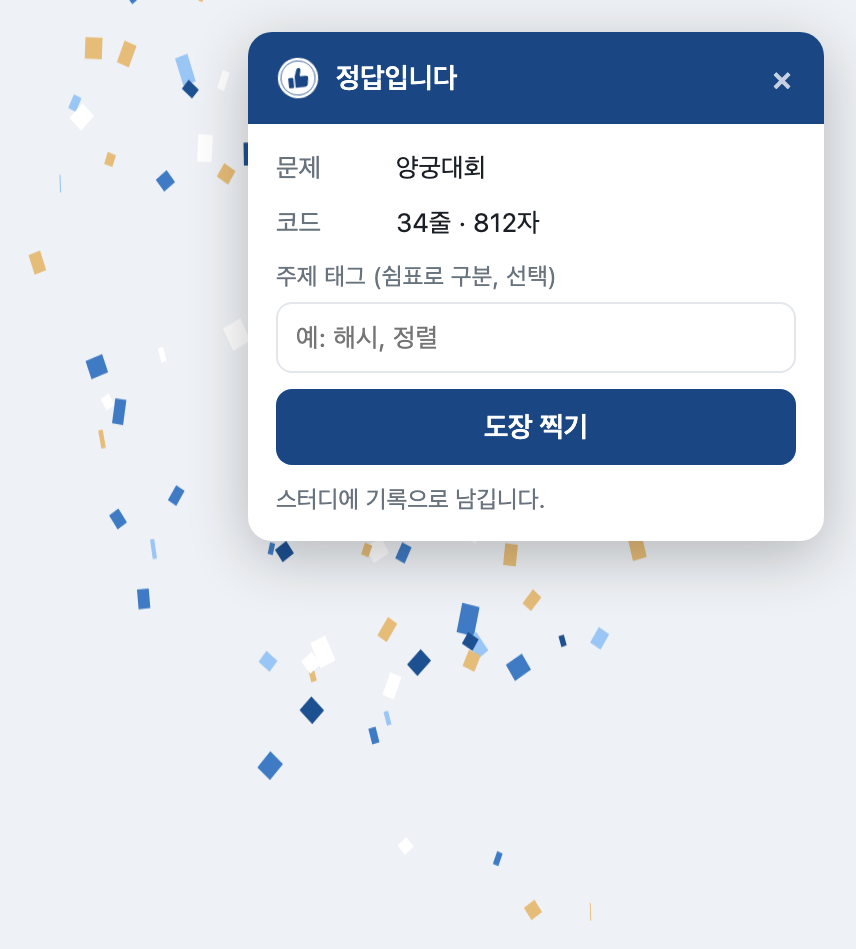
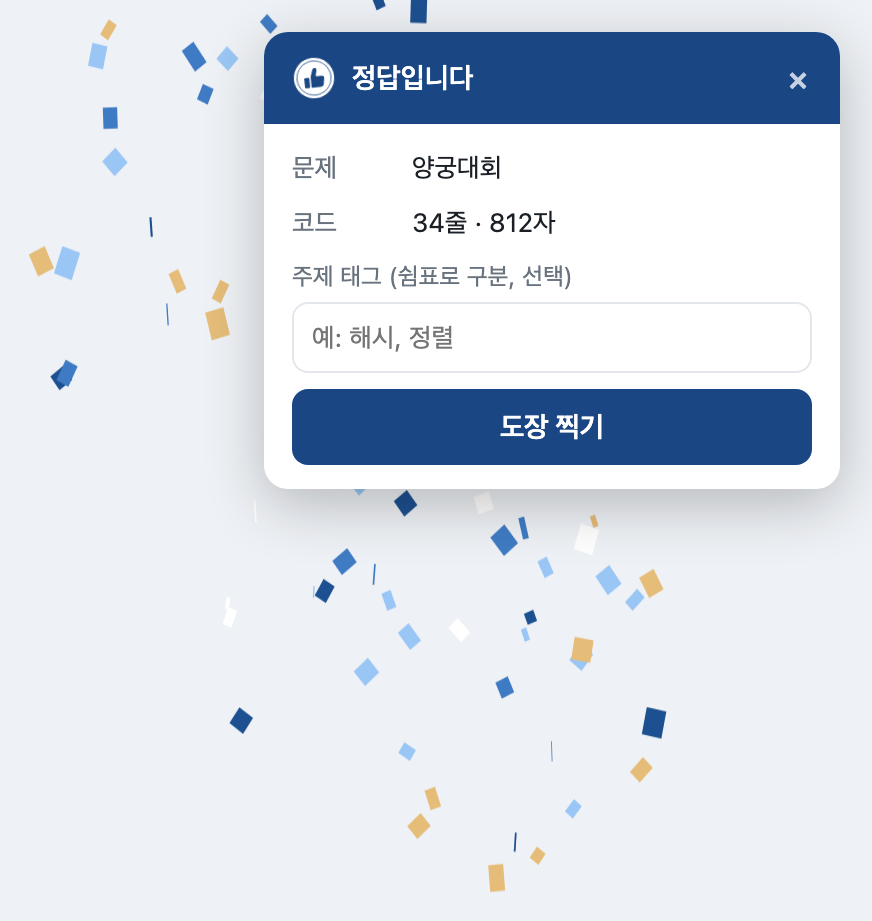
fix: 카드에서 군더더기 안내를 빼고 팝업 문구를 평범하게 고침
'스터디에 기록으로 남깁니다'는 사용자가 이미 아는 내용이라 뺐습니다. 그 자리는
스터디를 골라야 하거나 실패했을 때만 뜹니다. 남의 페이지에 얹히므로 숨김도
overlay.css에서 직접 정합니다.

팝업 안내는 '한 번만 연결해두면 다음부터 바로 찍을 수 있습니다'에서
'처음 한 번만 연결하면 됩니다'로 줄였습니다. 절을 겹쳐 쌓지 않으니 읽기 쉽고,
'~하면 됩니다'가 '이게 전부'라는 뜻을 이미 담고 있습니다.

화면 사진 세 장을 다시 찍었습니다.

diff --git a/extension/content/programmers.js b/extension/content/programmers.js
@@ -117,8 +117,17 @@
 
     const stamp = el("button", "dojang-stamp", "도장 찍기");
     stamp.type = "button";
-    const note = el("p", "dojang-note", "스터디에 기록으로 남깁니다.");
+    // 무엇을 하는 카드인지는 이미 보고 있으므로 기본 설명은 두지 않습니다.
+    // 스터디를 골라야 하거나 실패했을 때만 아래 줄이 뜹니다.
+    const note = el("p", "dojang-note");
+    note.hidden = true;
     body.append(stamp, note);
+
+    function tell(text, bad = false) {
+      note.textContent = text;
+      note.hidden = !text;
+      note.classList.toggle("dojang-bad", bad);
+    }
     card.append(head, body);
     (visibleModal() ?? document.body).append(card);
     // 모달이 뜬 직후라 포커스가 아직 오가는 중일 수 있어 한 박자 뒤에 잡습니다.
@@ -134,7 +143,7 @@
       for (const group of groups) picker.append(new Option(group.name, group.id));
       wrap.append(picker);
       body.insertBefore(wrap, tagWrap);
-      note.textContent = "스터디를 고르면 바로 남깁니다.";
+      tell("스터디를 고르면 바로 남깁니다.");
       picker.addEventListener("change", () => {
         if (picker.value) void send(picker.value);
       });
@@ -146,7 +155,7 @@
       stamp.disabled = true;
       // 처음 누르면 GitHub 창이 열리므로 무엇을 기다리는지 알려줍니다.
       stamp.textContent = groupId ? "남기는 중…" : "연결하고 남기는 중…";
-      note.classList.remove("dojang-bad");
+      tell("");
       const result = await chrome.runtime.sendMessage({
         type: "submit-code",
         solutionCode: code,
@@ -159,8 +168,7 @@
       if (result?.error) {
         stamp.disabled = false;
         stamp.textContent = "다시 시도";
-        note.textContent = result.error;
-        note.classList.add("dojang-bad");
+        tell(result.error, true);
         return;
       }
       registeredCode = code;

diff --git a/extension/popup.html b/extension/popup.html
@@ -11,7 +11,7 @@
     </header>
 
     <section id="signin" hidden>
-      <p class="hint">한 번만 연결해두면 다음부터 바로 찍을 수 있습니다.</p>
+      <p class="hint">처음 한 번만 연결하면 됩니다.</p>
       <button id="signin-button" class="primary">GitHub로 연결</button>
     </section>
 

diff --git a/extension/content/overlay.css b/extension/content/overlay.css
@@ -134,6 +134,10 @@
   font-size: 12px;
 }
 
+.dojang-note[hidden] {
+  display: none;
+}
+
 .dojang-note.dojang-bad {
   color: #ab3a31;
 }
